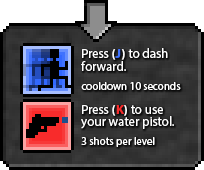
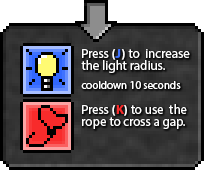
Added skill-div

diff --git a/htdocs/css/main.css b/htdocs/css/main.css
@@ -16,7 +16,11 @@ canvas{cursor:crosshair;position:absolute;top:0;left:0;width:100%;height:100%}
 .player-select .fear.olaf{left:156px}
 .gameover{width:100%;height:100%;position:absolute;top:0;left:0;background:url("../img/ui/gameover.png") center center no-repeat;display:none}
 .victory{width:100%;height:100%;position:absolute;top:0;left:0;background:url("../img/ui/victory.png") center center no-repeat;display:none}
-.info{width:100%;height:100%;position:absolute;background-color:#000;top:0;left:0;background:url("../img/ui/info.png") center center no-repeat;display:block}
+.info{width:100%;height:100%;position:absolute;top:0;left:0;background:url("../img/ui/info.png") center center no-repeat #000;display:block}
+.skills{position:absolute;top:125px;left:20px;width:204px;height:170px;}
+.skills.jerome{background:url("../img/ui/skills_jerome.png") center center no-repeat}
+.skills.lina{background:url("../img/ui/skills_lina.png") center center no-repeat}
+.skills.olaf{background:url("../img/ui/skills_olaf.png") center center no-repeat}
 .visible{opacity:1 !important}
 .display{display:block !important}
 .display-none{display:none !important}

diff --git a/htdocs/js/proto/entities/characters/Player.js b/htdocs/js/proto/entities/characters/Player.js
@@ -207,6 +207,9 @@ define([
 			dom.removeClass(elem,this.name);
 			dom.removeClass(elem, "choosen");
 
+			// skill-div
+			dom.removeClass(dom.get("skills"), this.name);
+
 			window.game.scene.inactivePlayer = new InativePlayer(inactivePlayerBuffer2.position.x, inactivePlayerBuffer2.position.y);
 			window.game.scene.inactivePlayer.setName(inactivePlayerBuffer2.name);
 
@@ -225,6 +228,9 @@ define([
 			setTimeout(function() {
 				dom.addClass(elem, "choosen");
 			}, 40);
+
+			// skill-div
+			dom.addClass(dom.get("skills"), inactivePlayerBuffer.name);
 
 			// add new shadows
 			window.game.scene.add(window.game.scene.inactivePlayer);

diff --git a/htdocs/index.html b/htdocs/index.html
@@ -22,6 +22,8 @@
 			<div class="fear olaf"></div>
 		</div>
 
+		<div class="skills jerome"></div>
+
 		<div class="gameover"></div>
 		<div class="victory"></div>
 		<div class="info"></div>
